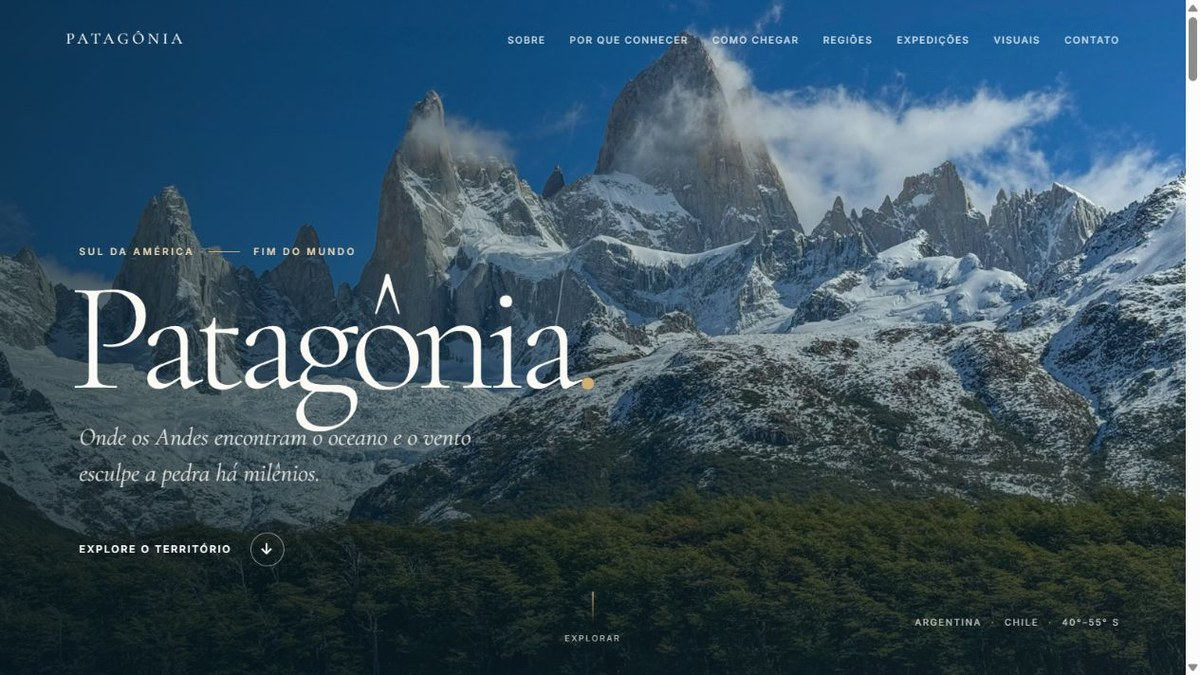
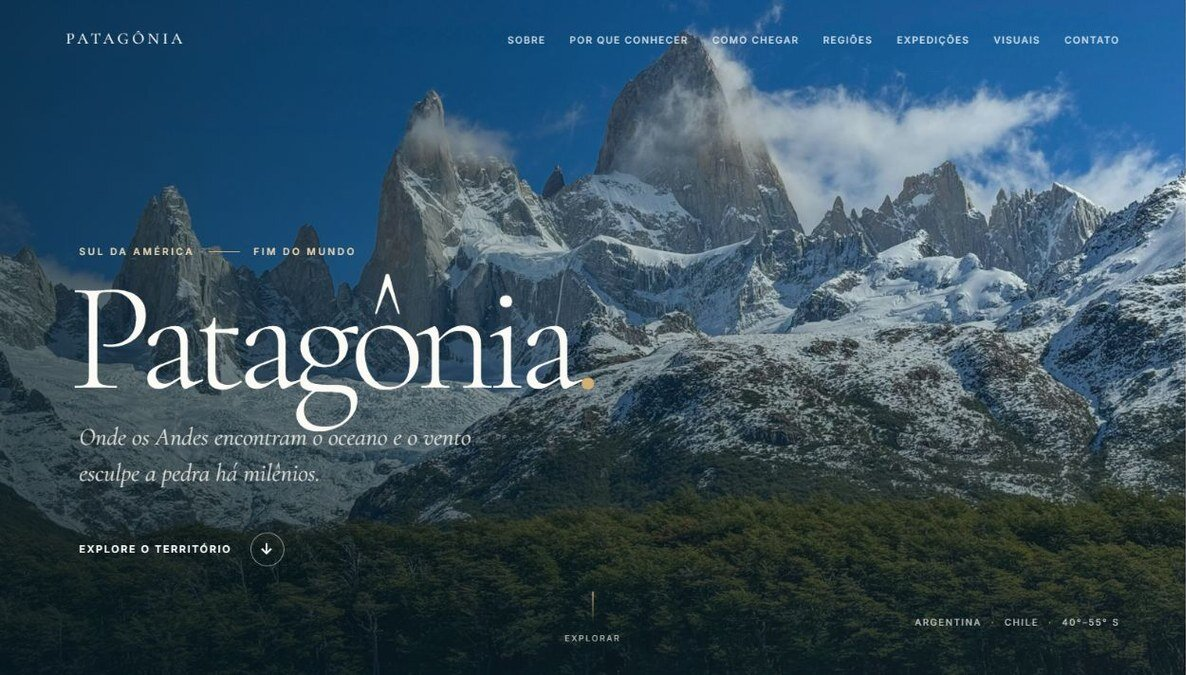
Melhora a leitura das competências e corrige a captura da Patagônia

diff --git a/README.md b/README.md
@@ -77,33 +77,20 @@ Website editorial responsivo sobre a Patagônia, com destinos, expedições, gal
 
 ### Linguagens e desenvolvimento
 
-**Linguagens**
-
+**Linguagens**<br>
 <p>
-  <img src="https://img.shields.io/badge/HTML5-E34F26?style=flat-square&logo=html5&logoColor=white" alt="HTML5" />&nbsp;
-  <img src="https://img.shields.io/badge/CSS3-1572B6?style=flat-square&logo=css3&logoColor=white" alt="CSS3" />&nbsp;
-  <img src="https://img.shields.io/badge/JavaScript-F7DF1E?style=flat-square&logo=javascript&logoColor=black" alt="JavaScript" />&nbsp;
-  <img src="https://img.shields.io/badge/TypeScript-3178C6?style=flat-square&logo=typescript&logoColor=white" alt="TypeScript" />&nbsp;
-  <img src="https://img.shields.io/badge/Python-3776AB?style=flat-square&logo=python&logoColor=white" alt="Python" />&nbsp;
-  <img src="https://img.shields.io/badge/Java-ED8B00?style=flat-square&logo=openjdk&logoColor=white" alt="Java" />
+  <img src="./assets/technologies/html5.svg" width="40" height="40" align="middle" alt="HTML5 logo" />&nbsp;<strong>HTML5</strong>&nbsp;&nbsp;&nbsp;<img src="./assets/technologies/css3.svg" width="40" height="40" align="middle" alt="CSS3 logo" />&nbsp;<strong>CSS3</strong>&nbsp;&nbsp;&nbsp;<img src="./assets/technologies/javascript.svg" width="40" height="40" align="middle" alt="JavaScript logo" />&nbsp;<strong>JavaScript</strong>&nbsp;&nbsp;&nbsp;<img src="./assets/technologies/typescript.svg" width="40" height="40" align="middle" alt="TypeScript logo" />&nbsp;<strong>TypeScript</strong>&nbsp;&nbsp;&nbsp;<img src="./assets/technologies/python.svg" width="40" height="40" align="middle" alt="Python logo" />&nbsp;<strong>Python</strong>&nbsp;&nbsp;&nbsp;<img src="./assets/technologies/java.svg" width="40" height="40" align="middle" alt="Java logo" />&nbsp;<strong>Java</strong>
 </p>
 
-**Desenvolvimento web**
-
+**Desenvolvimento web**<br>
 <p>
-  <img src="https://img.shields.io/badge/React-20232A?style=flat-square&logo=react&logoColor=61DAFB" alt="React" />&nbsp;
-  <img src="https://img.shields.io/badge/Node.js-339933?style=flat-square&logo=nodedotjs&logoColor=white" alt="Node.js" />&nbsp;
-  <img src="https://img.shields.io/badge/Vite-646CFF?style=flat-square&logo=vite&logoColor=white" alt="Vite" />&nbsp;
-  <img src="https://img.shields.io/badge/Fastify-000000?style=flat-square&logo=fastify&logoColor=white" alt="Fastify" />
+  <img src="./assets/technologies/react.svg" width="40" height="40" align="middle" alt="React logo" />&nbsp;<strong>React</strong>&nbsp;&nbsp;&nbsp;<img src="./assets/technologies/nodejs.svg" width="40" height="40" align="middle" alt="Node.js logo" />&nbsp;<strong>Node.js</strong>&nbsp;&nbsp;&nbsp;<img src="./assets/technologies/vite.svg" width="40" height="40" align="middle" alt="Vite logo" />&nbsp;<strong>Vite</strong>&nbsp;&nbsp;&nbsp;<img src="./assets/technologies/fastify.svg" width="40" height="40" align="middle" alt="Fastify logo" />&nbsp;<strong>Fastify</strong>
 </p>
 
 ### ITSM e automação
 
 <p>
-  <img src="./assets/technologies/servicenow.svg" width="22" height="22" alt="ServiceNow" /> ServiceNow &nbsp;·&nbsp;
-  <img src="./assets/technologies/power-automate.svg" width="22" height="22" alt="Power Automate" /> Power Automate &nbsp;·&nbsp;
-  <img src="./assets/technologies/power-bi.svg" width="22" height="22" alt="Power BI" /> Power BI &nbsp;·&nbsp;
-  <img src="./assets/technologies/teams.svg" width="22" height="22" alt="Microsoft Teams" /> Microsoft Teams
+  <img src="./assets/technologies/servicenow.svg" width="40" height="40" align="middle" alt="ServiceNow logo" />&nbsp;<strong>ServiceNow</strong>&nbsp;&nbsp;&nbsp;<img src="./assets/technologies/power-automate.svg" width="40" height="40" align="middle" alt="Power Automate logo" />&nbsp;<strong>Power Automate</strong>&nbsp;&nbsp;&nbsp;<img src="./assets/technologies/power-bi.svg" width="40" height="40" align="middle" alt="Power BI logo" />&nbsp;<strong>Power BI</strong>&nbsp;&nbsp;&nbsp;<img src="./assets/technologies/teams.svg" width="40" height="40" align="middle" alt="Microsoft Teams logo" />&nbsp;<strong>Microsoft Teams</strong>
 </p>
 
 Incident Management · Problem Management · Business Rules · Flow Designer · Scheduled Script Executions · UI Policies · Integrações REST · Adaptive Cards
@@ -111,11 +98,7 @@ Incident Management · Problem Management · Business Rules · Flow Designer · 
 ### Dados e infraestrutura
 
 <p>
-  <img src="./assets/technologies/sql-server.svg" width="22" height="22" alt="SQL Server" /> SQL Server &nbsp;·&nbsp;
-  <img src="./assets/technologies/sqlite.svg" width="22" height="22" alt="SQLite" /> SQLite &nbsp;·&nbsp;
-  <img src="./assets/technologies/linux.svg" width="22" height="22" alt="Linux" /> Linux &nbsp;·&nbsp;
-  <img src="./assets/technologies/windows.svg" width="22" height="22" alt="Windows" /> Windows &nbsp;·&nbsp;
-  <img src="./assets/technologies/cloudflare.svg" width="22" height="22" alt="Cloudflare" /> Cloudflare
+  <img src="./assets/technologies/sql-server.svg" width="40" height="40" align="middle" alt="SQL Server logo" />&nbsp;<strong>SQL Server</strong>&nbsp;&nbsp;&nbsp;<img src="./assets/technologies/sqlite.svg" width="40" height="40" align="middle" alt="SQLite logo" />&nbsp;<strong>SQLite</strong>&nbsp;&nbsp;&nbsp;<img src="./assets/technologies/linux.svg" width="40" height="40" align="middle" alt="Linux logo" />&nbsp;<strong>Linux</strong>&nbsp;&nbsp;&nbsp;<img src="./assets/technologies/windows.svg" width="40" height="40" align="middle" alt="Windows logo" />&nbsp;<strong>Windows</strong>&nbsp;&nbsp;&nbsp;<img src="./assets/technologies/cloudflare.svg" width="40" height="40" align="middle" alt="Cloudflare logo" />&nbsp;<strong>Cloudflare</strong>
 </p>
 
 SQL · T-SQL · SharePoint · Linux e Windows como ambientes de execução e CI.<br>
@@ -124,17 +107,10 @@ Suporte de redes N1/N2, diagnóstico de conectividade e monitoramento com Zabbix
 ### Ferramentas e qualidade
 
 <p>
-  <img src="./assets/technologies/git.svg" width="22" height="22" alt="Git" /> Git &nbsp;·&nbsp;
-  <img src="./assets/technologies/github.svg" width="22" height="22" alt="GitHub" /> GitHub &nbsp;·&nbsp;
-  <img src="./assets/technologies/github-actions.svg" width="22" height="22" alt="GitHub Actions" /> GitHub Actions &nbsp;·&nbsp;
-  <img src="./assets/technologies/vscode.svg" width="22" height="22" alt="Visual Studio Code" /> Visual Studio Code &nbsp;·&nbsp;
-  <img src="./assets/technologies/azure-devops.svg" width="22" height="22" alt="Azure DevOps" /> Azure DevOps
+  <img src="./assets/technologies/git.svg" width="40" height="40" align="middle" alt="Git logo" />&nbsp;<strong>Git</strong>&nbsp;&nbsp;&nbsp;<img src="./assets/technologies/github.svg" width="40" height="40" align="middle" alt="GitHub logo" />&nbsp;<strong>GitHub</strong>&nbsp;&nbsp;&nbsp;<img src="./assets/technologies/github-actions.svg" width="40" height="40" align="middle" alt="GitHub Actions logo" />&nbsp;<strong>GitHub Actions</strong>&nbsp;&nbsp;&nbsp;<img src="./assets/technologies/vscode.svg" width="40" height="40" align="middle" alt="Visual Studio Code logo" />&nbsp;<strong>Visual Studio Code</strong>&nbsp;&nbsp;&nbsp;<img src="./assets/technologies/azure-devops.svg" width="40" height="40" align="middle" alt="Azure DevOps logo" />&nbsp;<strong>Azure DevOps</strong>
 </p>
 <p>
-  <img src="./assets/technologies/postman.svg" width="22" height="22" alt="Postman" /> Postman &nbsp;·&nbsp;
-  <img src="./assets/technologies/vitest.svg" width="22" height="22" alt="Vitest" /> Vitest &nbsp;·&nbsp;
-  <img src="./assets/technologies/playwright.svg" width="22" height="22" alt="Playwright" /> Playwright &nbsp;·&nbsp;
-  <img src="./assets/technologies/figma.svg" width="22" height="22" alt="Figma" /> Figma
+  <img src="./assets/technologies/postman.svg" width="40" height="40" align="middle" alt="Postman logo" />&nbsp;<strong>Postman</strong>&nbsp;&nbsp;&nbsp;<img src="./assets/technologies/vitest.svg" width="40" height="40" align="middle" alt="Vitest logo" />&nbsp;<strong>Vitest</strong>&nbsp;&nbsp;&nbsp;<img src="./assets/technologies/playwright.svg" width="40" height="40" align="middle" alt="Playwright logo" />&nbsp;<strong>Playwright</strong>&nbsp;&nbsp;&nbsp;<img src="./assets/technologies/figma.svg" width="40" height="40" align="middle" alt="Figma logo" />&nbsp;<strong>Figma</strong>
 </p>
 
 ## Da ideia à implementação
